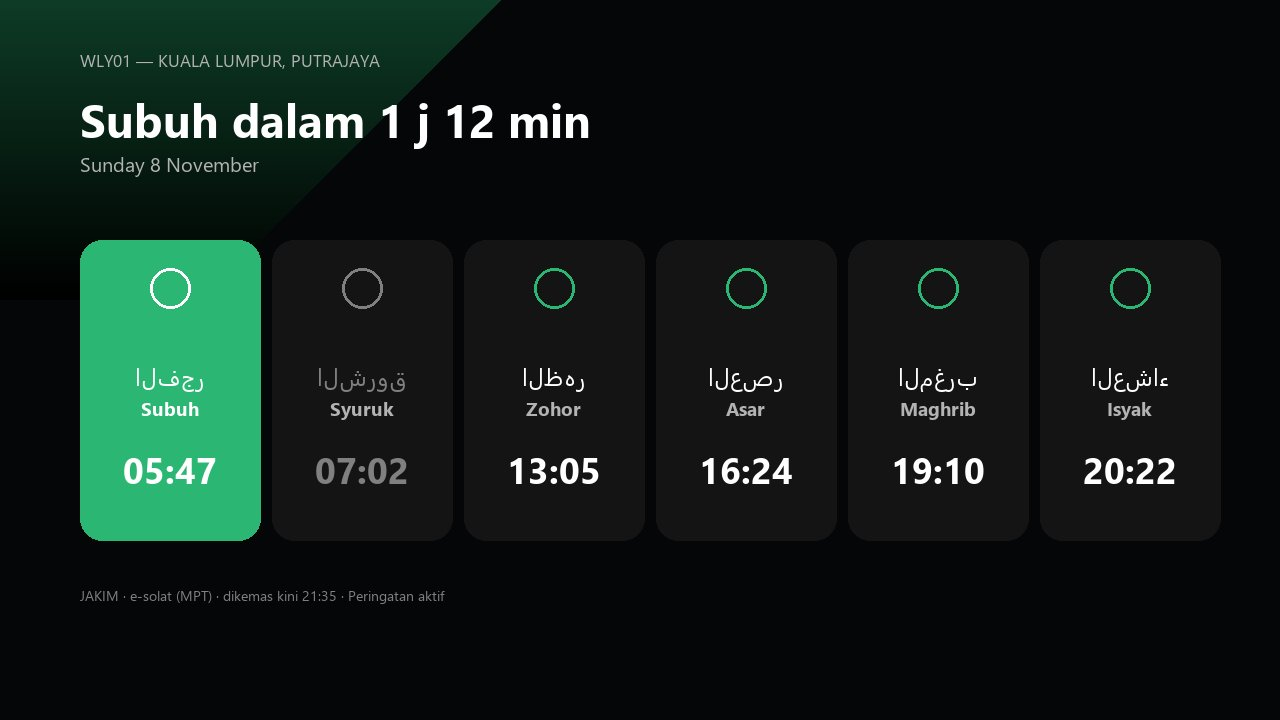
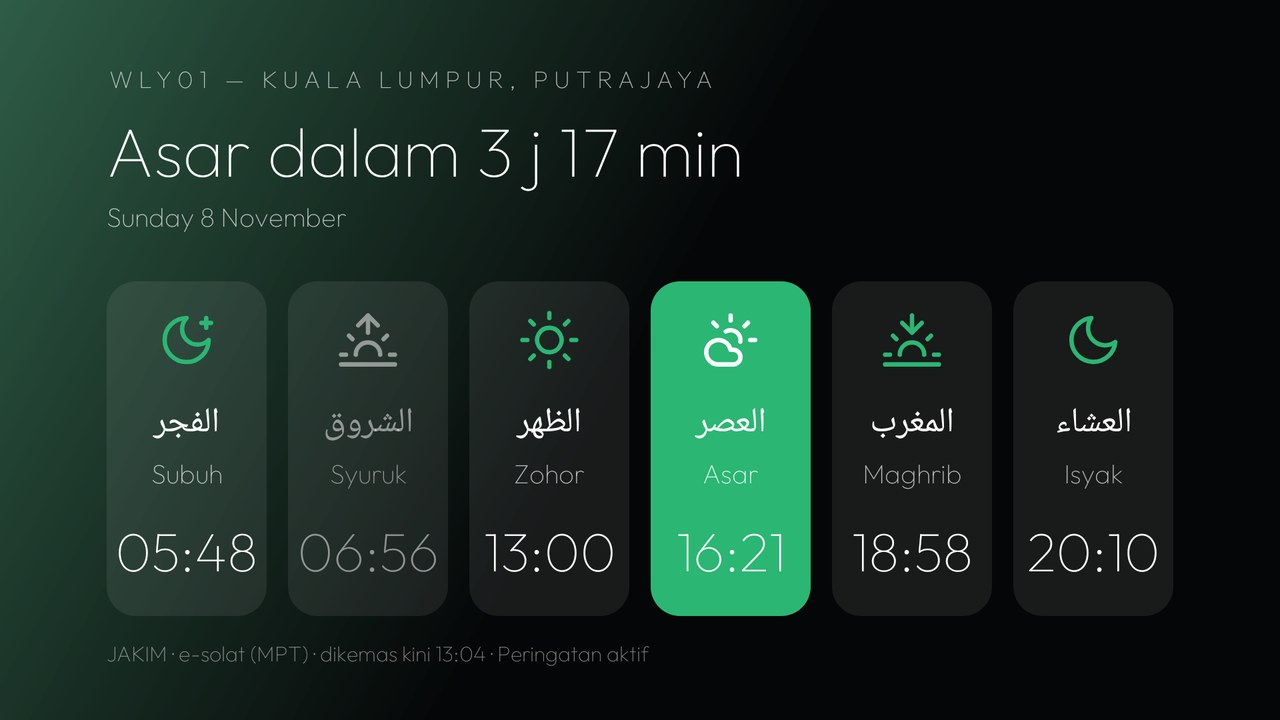
addons: real Mi Box 3 screenshot for Esolat JAKIM

diff --git a/addons/README.md b/addons/README.md
@@ -43,7 +43,7 @@ the core bigger or change how it behaves. You install an add-on only if you want
 | [Haunted](haunted/) | A Halloween screensaver (and a card that starts it): the theme's night photos crossfading, bats drifting across, a ghost floating up, a flickering jack-o'-lantern glow and a small clock, drawn on the TV with no network | CleanYourTV contributors | Not yet tested on a real TV | None | <img src="haunted/screenshot.jpg" width="240" alt="Haunted on a TV"> |
 | [Lịch Vạn Niên](lich-van-nien/) | Vietnamese lunar almanac, offline: the tile says whether today is hoàng đạo (auspicious) or hắc đạo and lists the day's good hours; OK opens the lunar date, can chi, the day's star and trực, a 12-hour ring with the zodiac animals, and what the day suits or should avoid; Left/Right page through days | [@mevvmevvcodinggarg](https://github.com/mevvmevvcodinggarg) | Expressluck AiPro4K (sepolia), Android TV 14 | start at boot (re-enable today's tile) | <img src="lich-van-nien/screenshot.jpg" width="240" alt="Lịch Vạn Niên on a TV"> |
 | [Neon Dream](neon-dream/) | A neon screensaver and a card: a city in the rain or a synthwave grid with a clock drifting over it; scene, colours (magenta, amber, green) and clock are set in its own screen, with a Preview and a shortcut to the screensaver menu | [@SmartGenius2](https://github.com/SmartGenius2) | Challenger R3 (Android TV 11) | None | <img src="neon-dream/screenshot.jpg" width="240" alt="Neon Dream on a TV"> |
-| [Esolat JAKIM](esolat-jakim/) | Waktu solat for Malaysia: today's six times for the JAKIM zone chosen on the TV (negeri then zon, 56 zones), the next prayer with a countdown, from MPT's mirror of JAKIM's e-solat data; an optional azan reminder card | CleanYourTV contributors | Not yet tested on a real TV | `INTERNET`, start at boot, exact alarm, overlay (only with reminders on) | <img src="esolat-jakim/screenshot.jpg" width="240" alt="Esolat JAKIM on a TV"> |
+| [Esolat JAKIM](esolat-jakim/) | Waktu solat for Malaysia: today's six times for the JAKIM zone chosen on the TV (negeri then zon, 56 zones), the next prayer with a countdown, from MPT's mirror of JAKIM's e-solat data; an optional azan reminder card | [rashidzainol](https://github.com/rashidzainol) | Xiaomi Mi Box 3 (Google Cast device), Android TV 9 | `INTERNET`, start at boot, exact alarm, overlay (only with reminders on) | <img src="esolat-jakim/screenshot.jpg" width="240" alt="Esolat JAKIM on a TV"> |
 
 A widget, an info tile, a storage or smart-home card: if it can live as its own small app, it can live
 here. See the rules below.
